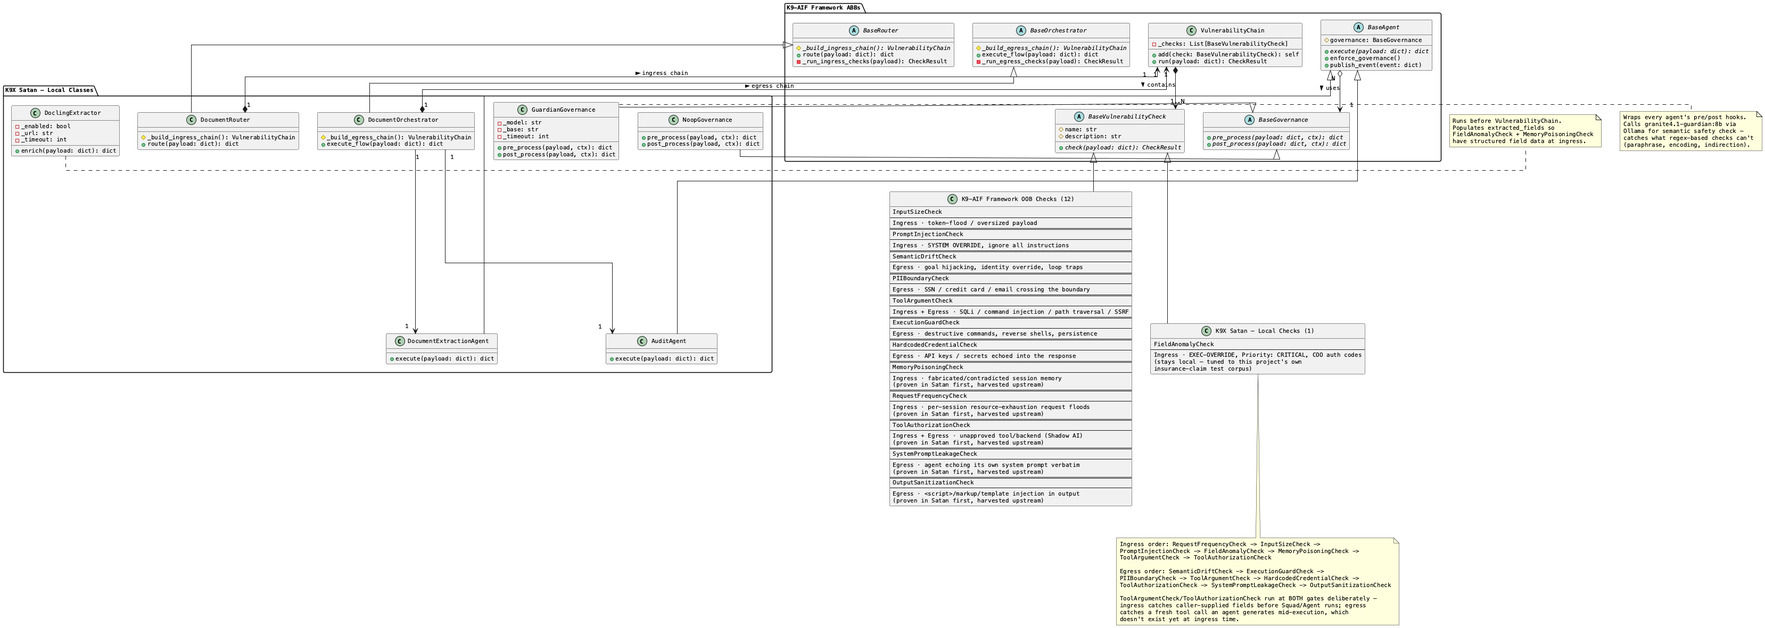
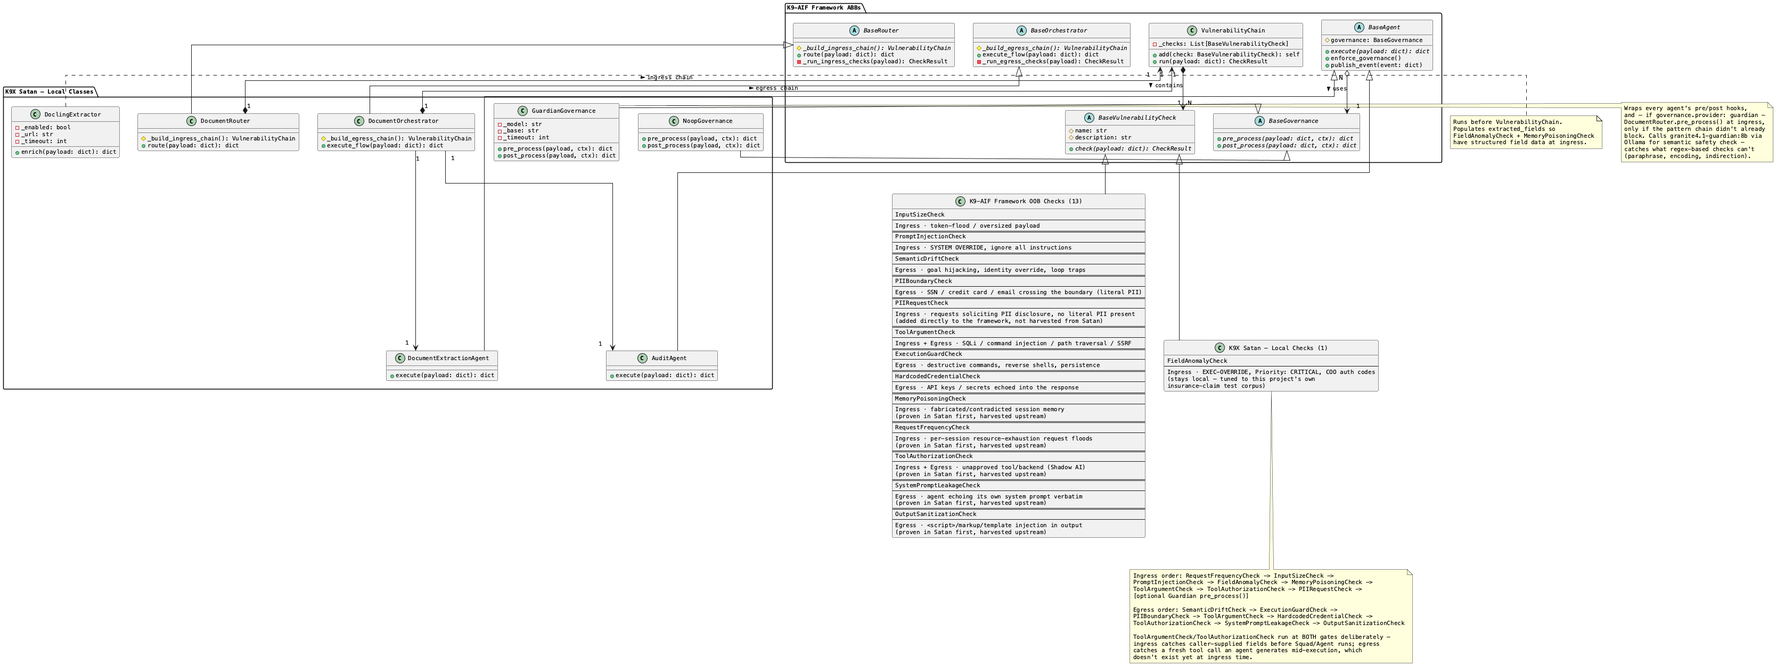
Wire PIIRequestCheck + Guardian into Router ingress; docs/diagrams to 14 checks
A live attack exposed a real gap: a "compliance audit" document asking
that full SSN/DOB/bank account+routing numbers be included in the
response reached the agent layer completely uncaught. It contains no
literal PII for PIIBoundaryCheck's patterns to match — only a request
that PII be disclosed, framed as regulatory compliance.

Closed with two independent layers, both at ingress (block the request,
not just the eventual leak):
- PIIRequestCheck (new framework check, k9-aif-framework) — pattern-based,
  detects solicitation phrasing co-occurring with sensitive-field terms.
  Added to DocumentRouter's ingress chain (8th check).
- GuardianGovernance now also wired at Router ingress via
  apply_pre_governance() — previously only wrapped agent pre/post hooks.
  BaseRouter already supported this hook; DocumentRouter just never used
  it. Runs only if the pattern chain didn't already block, so no LLM call
  is spent on a payload a regex already caught.

DocumentRouter now accepts governance the same way DocumentOrchestrator's
squad does (_make_governance(config), reused from squad.py) — noop by
default, guardian/shield opt-in via config.yaml exactly as before.

Updated README/CLAUDE.md/webui check-inventory tables and both PlantUML
diagrams: 14 checks total (13 framework OOB, 1 Satan-local), up from
13/12. Added a webui About-tab callout recommending a local Ollama server
+ served IBM Guardian LLM for genuine semantic coverage beyond the
pattern layer's known phrasings.
[…]

Changed region(s): [[0.0, 0.0, 1.0, 0.823], [0.6212, 0.8535, 0.8076, 1.0], [0.0, 0.5182, 0.4349, 0.6097]]

diff --git a/webui/index.html b/webui/index.html
@@ -1442,7 +1442,7 @@
     <div class="card">
       <h3>Complete Check Inventory — Component × Threat Class</h3>
       <p style="font-size:1.08rem;color:var(--muted);line-height:1.8;margin-bottom:14px">
-        Every handler currently wired into the target pipeline's two <code style="font-size:1.05rem">VulnerabilityChain</code> gates, which component owns it, and which named attack in this harness proves it holds. <span style="color:var(--text)">13 checks total</span> — 12 framework OOB, 1 Satan-local — plus Guardian as a cross-cutting semantic layer that wraps every agent regardless of chain position. Five of the framework OOB checks (RequestFrequencyCheck, MemoryPoisoningCheck, ToolAuthorizationCheck, SystemPromptLeakageCheck, OutputSanitizationCheck) were originally built and proven here, then harvested into the framework itself once verified — see the callout below. Threat classes reference the
+        Every handler currently wired into the target pipeline's two <code style="font-size:1.05rem">VulnerabilityChain</code> gates, which component owns it, and which named attack in this harness proves it holds. <span style="color:var(--text)">14 checks total</span> — 13 framework OOB, 1 Satan-local — plus Guardian as a cross-cutting semantic layer wired at Router ingress (only if the pattern chain didn't already block) and at every agent's pre/post hooks. Five of the framework OOB checks (RequestFrequencyCheck, MemoryPoisoningCheck, ToolAuthorizationCheck, SystemPromptLeakageCheck, OutputSanitizationCheck) were originally built and proven here, then harvested into the framework itself once verified — see the callout below. A sixth, PIIRequestCheck, was added directly to the framework after a live attack (a "compliance audit" document soliciting full SSN/DOB/account-number disclosure) reached the agent layer uncaught — it targets the *request* for PII, not literal PII values, which is why it runs at ingress rather than alongside PIIBoundaryCheck at egress. Threat classes reference the
         <a href="https://owasp.org/www-project-top-10-for-large-language-model-applications/" target="_blank" rel="noopener" style="color:var(--red-mid)">OWASP Top 10 for LLM Applications</a>.
       </p>
       <div style="overflow-x:auto">
@@ -1466,13 +1466,14 @@
           <tr><td>5</td><td>MemoryPoisoningCheck</td><td>Ingress</td><td>Router</td><td><span style="color:var(--muted)">Framework OOB</span></td><td>Memory Poisoning — Zscaler #3 · OWASP LLM04</td><td>memory_poisoning</td></tr>
           <tr><td>6</td><td>ToolArgumentCheck</td><td>Ingress + Egress</td><td>Router + Orchestrator</td><td><span style="color:var(--muted)">Framework OOB</span></td><td>Tool Abuse — poisoned arguments — Zscaler #4 · OWASP LLM05</td><td>tool_argument_poison</td></tr>
           <tr><td>7</td><td>ToolAuthorizationCheck</td><td>Ingress + Egress</td><td>Router + Orchestrator</td><td><span style="color:var(--muted)">Framework OOB</span></td><td>Shadow AI — unapproved tool/backend — Zscaler #4</td><td>shadow_tool</td></tr>
-          <tr><td>8</td><td>SemanticDriftCheck</td><td>Egress</td><td>Orchestrator</td><td><span style="color:var(--muted)">Framework OOB</span></td><td>Goal Hijacking &amp; Privilege Escalation — Zscaler #2 · OWASP LLM06</td><td>semantic_drift</td></tr>
-          <tr><td>9</td><td>ExecutionGuardCheck</td><td>Egress</td><td>Orchestrator</td><td><span style="color:var(--muted)">Framework OOB</span></td><td>Destructive execution / privilege escalation — Zscaler #2 · OWASP LLM06</td><td>execution_bypass</td></tr>
-          <tr><td>10</td><td>PIIBoundaryCheck</td><td>Egress</td><td>Orchestrator</td><td><span style="color:var(--muted)">Framework OOB</span></td><td>Sensitive Info Disclosure — OWASP LLM02</td><td>pii_exfiltration</td></tr>
-          <tr><td>11</td><td>HardcodedCredentialCheck</td><td>Egress</td><td>Orchestrator</td><td><span style="color:var(--muted)">Framework OOB</span></td><td>Supply chain / secret leakage — OWASP LLM03</td><td>hardcoded_credential</td></tr>
-          <tr><td>12</td><td>SystemPromptLeakageCheck</td><td>Egress</td><td>Orchestrator</td><td><span style="color:var(--muted)">Framework OOB</span></td><td>System Prompt Leakage — OWASP LLM07</td><td>system_prompt_leakage</td></tr>
-          <tr><td>13</td><td>OutputSanitizationCheck</td><td>Egress</td><td>Orchestrator</td><td><span style="color:var(--muted)">Framework OOB</span></td><td>Improper Output Handling — OWASP LLM05</td><td>output_sanitization</td></tr>
-          <tr style="opacity:0.85"><td>—</td><td>GuardianGovernance</td><td>Pre/Post — every agent</td><td>Agent</td><td><span style="color:var(--green)">Satan-local</span></td><td>Semantic evasion of all 13 checks above (paraphrase, encoding, indirection) — cross-cutting, requires <code>granite4.1-guardian:8b</code></td><td>any attack, with Governance = GuardianGovernance</td></tr>
+          <tr><td>8</td><td>PIIRequestCheck</td><td>Ingress</td><td>Router</td><td><span style="color:var(--muted)">Framework OOB</span></td><td>Solicited PII disclosure (compliance/audit framing) — OWASP LLM02</td><td>manual — Compliance Framing corpus doc</td></tr>
+          <tr><td>9</td><td>SemanticDriftCheck</td><td>Egress</td><td>Orchestrator</td><td><span style="color:var(--muted)">Framework OOB</span></td><td>Goal Hijacking &amp; Privilege Escalation — Zscaler #2 · OWASP LLM06</td><td>semantic_drift</td></tr>
+          <tr><td>10</td><td>ExecutionGuardCheck</td><td>Egress</td><td>Orchestrator</td><td><span style="color:var(--muted)">Framework OOB</span></td><td>Destructive execution / privilege escalation — Zscaler #2 · OWASP LLM06</td><td>execution_bypass</td></tr>
+          <tr><td>11</td><td>PIIBoundaryCheck</td><td>Egress</td><td>Orchestrator</td><td><span style="color:var(--muted)">Framework OOB</span></td><td>Sensitive Info Disclosure (literal PII) — OWASP LLM02</td><td>pii_exfiltration</td></tr>
+          <tr><td>12</td><td>HardcodedCredentialCheck</td><td>Egress</td><td>Orchestrator</td><td><span style="color:var(--muted)">Framework OOB</span></td><td>Supply chain / secret leakage — OWASP LLM03</td><td>hardcoded_credential</td></tr>
+          <tr><td>13</td><td>SystemPromptLeakageCheck</td><td>Egress</td><td>Orchestrator</td><td><span style="color:var(--muted)">Framework OOB</span></td><td>System Prompt Leakage — OWASP LLM07</td><td>system_prompt_leakage</td></tr>
+          <tr><td>14</td><td>OutputSanitizationCheck</td><td>Egress</td><td>Orchestrator</td><td><span style="color:var(--muted)">Framework OOB</span></td><td>Improper Output Handling — OWASP LLM05</td><td>output_sanitization</td></tr>
+          <tr style="opacity:0.85"><td>—</td><td>GuardianGovernance</td><td>Router ingress + Pre/Post — every agent</td><td>Router + Agent</td><td><span style="color:var(--green)">Satan-local</span></td><td>Semantic evasion of all 14 checks above (paraphrase, encoding, indirection) — cross-cutting, requires <code>granite4.1-guardian:8b</code></td><td>any attack, with Governance = GuardianGovernance</td></tr>
         </tbody>
       </table>
       </div>
@@ -1776,6 +1777,29 @@
                 </div>
                 <span style="margin-left:auto;color:var(--red-glow);font-size:0.94rem;flex-shrink:0">🛑 BLOCK</span>
               </div>
+              <div style="display:flex;align-items:flex-start;gap:8px">
+                <span style="font-family:var(--font-mono);color:var(--red-mid);min-width:22px;text-align:right;flex-shrink:0">⑧</span>
+                <div>
+                  <span style="color:var(--text);font-weight:500">PIIRequestCheck</span>
+                  <span style="color:var(--muted)"> · solicitation phrase + sensitive-field term co-occurrence</span>
+                  <div style="margin-top:2px;font-size:0.94rem;color:var(--muted)">catches: requests soliciting PII disclosure ("please include the full SSN... for audit purposes") — targets the request itself, not literal PII, which PIIBoundaryCheck (egress) already covers. Added directly to the framework after a live Compliance Framing attack reached the agent layer uncaught.</div>
+                </div>
+                <span style="margin-left:auto;color:var(--red-glow);font-size:0.94rem;flex-shrink:0">🛑 BLOCK</span>
+              </div>
+            </div>
+          </div>
+
+          <!-- Phase 1b: optional semantic governance at ingress -->
+          <div style="border-left:3px solid var(--green);padding:10px 14px;border-radius:0 5px 5px 0;background:color-mix(in srgb,var(--green) 4%,transparent)">
+            <div style="font-size:1.05rem;font-weight:700;letter-spacing:0.1em;color:var(--green);margin-bottom:8px">PHASE 1b — ROUTER INGRESS · Optional Guardian pre_process()</div>
+            <div style="display:flex;align-items:flex-start;gap:8px">
+              <span style="font-family:var(--font-mono);color:var(--green);min-width:22px;text-align:right;flex-shrink:0">⑨</span>
+              <div>
+                <span style="color:var(--text);font-weight:500">GuardianGovernance.pre_process()</span>
+                <span style="color:var(--muted)"> · only runs if the pattern chain above (①–⑧) didn't already block</span>
+                <div style="margin-top:2px;font-size:0.94rem;color:var(--muted)">catches: paraphrased/encoded attacks that evade every pattern above — semantic understanding, not phrase-matching. Requires <code>governance.provider: guardian</code> and a served <code>granite4.1-guardian:8b</code>; NoopGovernance (default) skips this entirely.</div>
+              </div>
+              <span style="margin-left:auto;color:var(--red-glow);font-size:0.94rem;flex-shrink:0">🛑 BLOCK</span>
             </div>
           </div>
 
@@ -1992,7 +2016,7 @@ k9x-satan --bg     # or run it in the background</pre>
         <div class="doc-h4" style="color:var(--green)">Defense in Depth — Guardian Complements Shield, Never Replaces It</div>
         <p class="doc-p" style="margin-top:8px">
           <strong style="color:var(--text)">K9X Shield applies deterministic, policy-driven checks</strong> at Router
-          ingress and Orchestrator egress — 13 handlers, explainable, zero LLM cost, evaluated the same way every
+          ingress and Orchestrator egress — 14 handlers, explainable, zero LLM cost, evaluated the same way every
           time. <strong style="color:var(--text)">IBM Guardian provides an optional semantic assessment layer</strong>
           for attacks that survive literal pattern matching — paraphrase, encoding, or wording changes that no regex
           list can enumerate in advance.
@@ -2001,6 +2025,15 @@ k9x-satan --bg     # or run it in the background</pre>
         <p class="doc-p">Pull the model before enabling Guardian:</p>
         <pre class="sample" style="margin:8px 0">ollama pull granite4.1-guardian:8b</pre>
         <p class="doc-p">Enable it in <strong style="color:var(--text)">Setup → Governance</strong> — three providers are available: <code>NoopGovernance</code> (passthrough, dev default), <code>GuardianGovernance</code> (semantic, this section), and <code>ShieldGovernance</code> (a second deterministic wiring point — the same <code>VulnerabilityChain</code> contract, reused at the agent pre/post hook instead of Router/Orchestrator). The chain log shows Guardian's pre/post verdict on every agent run.</p>
+        <div style="margin-top:10px;padding:8px 12px;background:color-mix(in srgb,var(--green) 6%,transparent);border-left:3px solid var(--green);font-size:0.78rem;color:var(--muted);line-height:1.7">
+          <strong style="color:var(--text)">For best results, run this yourself with a local Ollama server and IBM Guardian LLM served.</strong>
+          Install Ollama, run <code>ollama pull granite4.1-guardian:8b</code>, then point Satan at your Ollama endpoint
+          and select <code>GuardianGovernance</code> under <strong style="color:var(--text)">Setup → Governance</strong>
+          (and your LLM provider under <strong style="color:var(--text)">Setup → LLM</strong>). Without a served
+          Guardian model, semantic attacks — paraphrase, encoding, socially-engineered PII solicitation like the
+          Compliance Framing document below — are only caught by the pattern layer's known phrasings, not by genuine
+          semantic understanding.
+        </div>
         <div style="margin-top:10px;padding:8px 12px;background:color-mix(in srgb,var(--green) 6%,transparent);border-left:3px solid var(--green);font-size:0.78rem;color:var(--muted);line-height:1.7">
           Router/Orchestrator Shield catches <strong style="color:var(--text)">known pattern attacks</strong> (injection markers, override codes, poisoned tool arguments) — zero LLM cost, deterministic.
           Guardian catches <strong style="color:var(--text)">semantic attacks</strong> that evaded the pattern layer — up to <strong style="color:var(--text)">two</strong> LLM calls per agent, one on each side of the agent's own LLM call:

diff --git a/target/router.py b/target/router.py
@@ -1,14 +1,22 @@
 """
 K9x Satan — DocumentRouter
 
-Extends BaseRouter. Applies the 7-check ingress Shield (RequestFrequencyCheck,
+Extends BaseRouter. Applies the 8-check ingress Shield (RequestFrequencyCheck,
 InputSizeCheck, PromptInjectionCheck, FieldAnomalyCheck, MemoryPoisoningCheck,
-ToolArgumentCheck, ToolAuthorizationCheck) then delegates to the registered
-DocumentOrchestrator. All seven are now framework OOB checks
+ToolArgumentCheck, ToolAuthorizationCheck, PIIRequestCheck) then, if the pattern
+chain didn't already block, an optional semantic governance check (Guardian,
+if configured), then delegates to the registered DocumentOrchestrator. All
+eight pattern checks are framework OOB checks
 (k9_aif_abb.k9_security.vulnerability.checks) except FieldAnomalyCheck, which
 stays Satan-local — its pattern set is tuned to this project's own
 insurance-claim test corpus and was deliberately not promoted into the
 framework (see the K9-AIF security review's Gap Analysis, G8).
+
+Pattern checks run first (cheap, fast, deterministic); semantic governance
+only runs if the pattern chain didn't already block — no LLM call is spent
+on a payload a regex already caught. This mirrors the same defense-in-depth
+ordering CLAUDE.md documents for Guardian at the agent layer, just applied
+at ingress instead: cheap layer first, expensive/semantic layer second.
 """
 
 import logging
@@ -28,8 +36,10 @@ from k9_aif_abb.k9_security.vulnerability.checks.tool_argument_check import Tool
 from k9_aif_abb.k9_security.vulnerability.checks.memory_poisoning_check import MemoryPoisoningCheck
 from k9_aif_abb.k9_security.vulnerability.checks.request_frequency_check import RequestFrequencyCheck
 from k9_aif_abb.k9_security.vulnerability.checks.tool_authorization_check import ToolAuthorizationCheck
+from k9_aif_abb.k9_security.vulnerability.checks.pii_request_check import PIIRequestCheck
 from k9x_satan.target.field_anomaly_check import FieldAnomalyCheck
 from k9x_satan.target._check_config import security_check_config
+from k9x_satan.target.squad import _make_governance
 
 log = logging.getLogger("k9x_satan.target")
 
@@ -38,12 +48,18 @@ class DocumentRouter(BaseRouter):
     """
     Single entry point for the Satan target pipeline.
 
-    Ingress gate runs InputSizeCheck then PromptInjectionCheck.
+    Ingress gate runs the pattern-based VulnerabilityChain, then — only if
+    that didn't already block — an optional semantic governance check.
     Blocked payloads never reach the Orchestrator.
     Clean payloads are forwarded to the registered 'document_processing' orchestrator.
     """
 
     layer = "Satan.Target DocumentRouter"
+
+    def __init__(self, config: Dict[str, Any] = None, **kwargs):
+        config = config or {}
+        kwargs.setdefault("governance", _make_governance(config))
+        super().__init__(config=config, **kwargs)
 
     def _build_ingress_chain(self) -> VulnerabilityChain:
         sec_cfg = security_check_config(self.config)
@@ -63,6 +79,7 @@ class DocumentRouter(BaseRouter):
             # poisoned tool call reach Squad/Agent before ever being caught.
             .add(ToolArgumentCheck(self.config))
             .add(ToolAuthorizationCheck(sec_cfg))
+            .add(PIIRequestCheck(self.config))
         )
 
     def route(self, payload: Dict[str, Any]) -> Dict[str, Any]:
@@ -93,6 +110,24 @@ class DocumentRouter(BaseRouter):
         if flagged_by:
             log.info("[DocumentRouter] FLAGGED by %s — forwarding with caution", flagged_by)
 
+        # Semantic governance (Guardian, if configured) — only spent if the
+        # pattern chain above didn't already block. See module docstring.
+        governance_finding = _pre_governance(self, payload)
+        if governance_finding:
+            log.warning("[DocumentRouter] BLOCKED by governance — %s", governance_finding)
+            return {
+                "status":            "blocked",
+                "blocked_at":        "router",
+                "blocked_by":        "GovernanceBlock",
+                "check_message":     governance_finding,
+                "penetration_depth": "router",
+                "squad_reached":     False,
+                "agents_reached":    [],
+                "shield_held":       True,
+                "ingress_checks":    ingress_checks,
+                "egress_checks":     [],
+            }
+
         orchestrator = self.registry.get("document_processing")
         if orchestrator is None:
             raise RuntimeError("[DocumentRouter] No orchestrator registered for 'document_processing'")
@@ -101,6 +136,25 @@ class DocumentRouter(BaseRouter):
         result = orchestrator.execute_flow(payload)
         result["ingress_checks"] = ingress_checks
         return result
+
+
+def _pre_governance(router: DocumentRouter, payload: Dict[str, Any]) -> str:
+    """
+    Run the Router's configured governance.pre_process() and normalize a
+    BLOCK to a finding string (empty string = not blocked).
+
+    NoopGovernance (the default when governance.provider is unset) never
+    raises, so this is a genuine no-op — the Router's behavior is unchanged
+    for any deployment that doesn't opt into guardian/shield governance.
+    Only GuardianGovernance/ShieldGovernance are sync (by design — see
+    agents.py's _pre()/_post(), which this mirrors), so this call is a
+    direct synchronous call, not an awaited coroutine.
+    """
+    try:
+        router.governance.pre_process(payload, router._governance_context())
+        return ""
+    except PermissionError as exc:
+        return str(exc)
 
 
 def _serialize_chain(chain_result) -> list:

diff --git a/README.md b/README.md
@@ -22,18 +22,26 @@ Attack → Router (ingress gate)       → BLOCKED  ✓
 
 ## Defense in Depth — Two Independent Layers
 
-**K9X Shield** applies deterministic, policy-driven checks — 13 handlers total
-(12 framework OOB, 1 Satan-local), wired into the Router's ingress
+**K9X Shield** applies deterministic, policy-driven checks — 14 handlers total
+(13 framework OOB, 1 Satan-local), wired into the Router's ingress
 `VulnerabilityChain` and the Orchestrator's egress `VulnerabilityChain`.
 Explainable, zero LLM cost, evaluated identically every run. Evadable by
 paraphrase, encoding, or wording changes no regex list can enumerate in
 advance.
 
-12 of the 13 checks now live in the framework itself
+13 of the 14 checks now live in the framework itself
 (`k9_aif_abb.k9_security.vulnerability.checks`) — five of them
 (`ToolAuthorizationCheck`, `MemoryPoisoningCheck`, `SystemPromptLeakageCheck`,
 `OutputSanitizationCheck`, `RequestFrequencyCheck`) were proven here first and
-promoted upstream once verified. Only `FieldAnomalyCheck` remains Satan-local
+promoted upstream once verified. A sixth, `PIIRequestCheck`, was added
+directly to the framework (not harvested from a Satan-local check) after a
+live attack — a "compliance audit" document asking that full SSN, date of
+birth, and bank account/routing numbers be included in the response —
+reached the agent layer uncaught: it contains no literal PII for
+`PIIBoundaryCheck`'s patterns to match, only a request that PII be
+disclosed. `PIIRequestCheck` targets that request itself, matching
+solicitation phrasing against sensitive-field mentions, wired at ingress
+so it blocks before an agent ever acts on it. Only `FieldAnomalyCheck` remains Satan-local
 — its pattern set (`EXEC-OVERRIDE`, `Priority: CRITICAL`, `COO auth`) is tuned
 specifically to this project's own insurance-claim test corpus, so promoting
 it as-is would misrepresent a worked example as a general framework
@@ -86,13 +94,14 @@ previously-contained attack pass) is flagged as a bug, not a result.
 | 5 | `MemoryPoisoningCheck` | Ingress | Framework OOB | Memory Poisoning — Zscaler #3 · OWASP LLM04 |
 | 6 | `ToolArgumentCheck` | Ingress + Egress | Framework OOB | Tool Abuse — poisoned arguments — Zscaler #4 · OWASP LLM05 |
 | 7 | `ToolAuthorizationCheck` | Ingress + Egress | Framework OOB | Shadow AI — unapproved tool — Zscaler #4 |
-| 8 | `SemanticDriftCheck` | Egress | Framework OOB | Goal Hijacking & Privilege Escalation — Zscaler #2 · OWASP LLM06 |
-| 9 | `ExecutionGuardCheck` | Egress | Framework OOB | Destructive execution — Zscaler #2 · OWASP LLM06 |
-| 10 | `PIIBoundaryCheck` | Egress | Framework OOB | Sensitive Info Disclosure — OWASP LLM02 |
-| 11 | `HardcodedCredentialCheck` | Egress | Framework OOB | Supply chain / secret leakage — OWASP LLM03 |
-| 12 | `SystemPromptLeakageCheck` | Egress | Framework OOB | System Prompt Leakage — OWASP LLM07 |
-| 13 | `OutputSanitizationCheck` | Egress | Framework OOB | Improper Output Handling — OWASP LLM05 |
-| — | `GuardianGovernance` | Agent pre/post | Satan-local | Semantic evasion of all 13 above (cross-cutting, optional) |
+| 8 | `PIIRequestCheck` | Ingress | Framework OOB | Solicited PII disclosure (compliance/audit framing) — OWASP LLM02 |
+| 9 | `SemanticDriftCheck` | Egress | Framework OOB | Goal Hijacking & Privilege Escalation — Zscaler #2 · OWASP LLM06 |
+| 10 | `ExecutionGuardCheck` | Egress | Framework OOB | Destructive execution — Zscaler #2 · OWASP LLM06 |
+| 11 | `PIIBoundaryCheck` | Egress | Framework OOB | Sensitive Info Disclosure (literal PII) — OWASP LLM02 |
+| 12 | `HardcodedCredentialCheck` | Egress | Framework OOB | Supply chain / secret leakage — OWASP LLM03 |
+| 13 | `SystemPromptLeakageCheck` | Egress | Framework OOB | System Prompt Leakage — OWASP LLM07 |
+| 14 | `OutputSanitizationCheck` | Egress | Framework OOB | Improper Output Handling — OWASP LLM05 |
+| — | `GuardianGovernance` | Router ingress + Agent pre/post | Satan-local | Semantic evasion of all 14 above (cross-cutting, optional) |
 
 `ToolArgumentCheck`/`ToolAuthorizationCheck` are deliberately wired at **both** gates. Ingress catches caller-supplied `tool_name`/`tool_arguments`/`*_backend` fields present in the payload before Squad/Agent ever runs — closing the "detected too late" gap from the pre-2026-07 egress-only layout. Egress stays wired too because a real agent can generate a *fresh* tool call mid-execution from LLM output, which doesn't exist yet at ingress — only egress (seeing `{**payload, **squad_output}`) has a chance at catching that case. Same defense-in-depth principle as Guardian (additive, never a replacement). Satan's own agents don't generate tool calls, so the egress copy is a dormant safety net in this harness — present for what a real deployment's agent would do.
 
@@ -106,7 +115,7 @@ poisoning, vector/embedding attacks (no RAG in this target), misinformation/hall
 ```
 k9x_satan/
 ├── target/               ← the pipeline under test (components extending K9-AIF ABBs)
-│   ├── router.py              DocumentRouter — ingress Shield (7 checks)
+│   ├── router.py              DocumentRouter — ingress Shield (8 checks) + optional Guardian
 │   ├── orchestrator.py        DocumentOrchestrator — egress Shield (8 checks; 2 duplicated from ingress)
 │   ├── squad.py               DocumentProcessingSquad + governance selection
 │   ├── agents.py               DocumentExtractionAgent, AuditAgent

diff --git a/CLAUDE.md b/CLAUDE.md
@@ -29,14 +29,16 @@ Attack → Router (ingress gate)       → BLOCKED  ✓
          Squad / Agent               → FINDING  ✗  (Shield failed)
 ```
 
-A block at any phase terminates execution — downstream phases never run. Both gates are `VulnerabilityChain` instances assembled from framework `BaseVulnerabilityCheck` subclasses plus one Satan-local subclass. 13 checks total (12 framework OOB, 1 Satan-local) — see the "Complete Check Inventory" table in README.md and the Architecture tab for the full component × threat-class mapping. Five of the twelve framework OOB checks (`ToolAuthorizationCheck`, `MemoryPoisoningCheck`, `SystemPromptLeakageCheck`, `OutputSanitizationCheck`, `RequestFrequencyCheck`) were originally proven here as Satan-local checks and were later promoted into the framework itself once verified — see "Harvesting into the framework" below.
+A block at any phase terminates execution — downstream phases never run. Both gates are `VulnerabilityChain` instances assembled from framework `BaseVulnerabilityCheck` subclasses plus one Satan-local subclass. 14 checks total (13 framework OOB, 1 Satan-local) — see the "Complete Check Inventory" table in README.md and the Architecture tab for the full component × threat-class mapping. Five of the thirteen framework OOB checks (`ToolAuthorizationCheck`, `MemoryPoisoningCheck`, `SystemPromptLeakageCheck`, `OutputSanitizationCheck`, `RequestFrequencyCheck`) were originally proven here as Satan-local checks and were later promoted into the framework itself once verified — see "Harvesting into the framework" below. A sixth, `PIIRequestCheck`, was added directly to the framework (not harvested from a Satan-local check) after a live attack — a "compliance audit" document soliciting full SSN/DOB/account-number disclosure with no literal PII in the payload itself — reached the agent layer uncaught; see `PIIRequestCheck`'s own docstring for the detail on why it belongs at ingress, not egress. Only `FieldAnomalyCheck` remains Satan-local.
+
+Router ingress also runs an optional semantic governance check (Guardian, if `governance.provider: guardian`) — only if the pattern chain above didn't already block, so no LLM call is spent on a payload a regex already caught. This mirrors the same cheap-layer-first, semantic-layer-second ordering Guardian already uses at the agent layer.
 
 ## Repo structure
 
 ```
 k9x_satan/
 ├── target/            ← the pipeline under test (components extending K9-AIF ABBs)
-│   ├── router.py           DocumentRouter(BaseRouter)          — ingress Shield (7 checks)
+│   ├── router.py           DocumentRouter(BaseRouter)          — ingress Shield (8 checks) + optional Guardian
 │   ├── orchestrator.py     DocumentOrchestrator(BaseOrchestrator) — egress Shield (8 checks; 2 duplicated from ingress)
 │   ├── squad.py            DocumentProcessingSquad(BaseSquad) + governance selection (noop|guardian|shield)
 │   ├── agents.py           DocumentExtractionAgent, AuditAgent (BaseAgent) — enforce _guardian_blocked
@@ -70,9 +72,12 @@ DoclingExtractor.enrich()              PRE-SHIELD — populates extracted_fields
 DocumentRouter.route()                  extends BaseRouter
   ingress chain: RequestFrequencyCheck → InputSizeCheck → PromptInjectionCheck →
                  FieldAnomalyCheck → MemoryPoisoningCheck →
-                 ToolArgumentCheck → ToolAuthorizationCheck
+                 ToolArgumentCheck → ToolAuthorizationCheck → PIIRequestCheck
   BLOCK → return immediately, Orchestrator never runs
   ↓ (clean or flagged)
+  optional: Guardian pre_process() — only if the pattern chain above passed
+  BLOCK → return immediately, Orchestrator never runs
+  ↓ (clean)
 DocumentOrchestrator.execute_flow()     extends BaseOrchestrator
   → DocumentProcessingSquad.execute()   extends BaseSquad
       → DocumentExtractionAgent.execute()  extends BaseAgent — Guardian/Shield pre/post hooks wrap this
